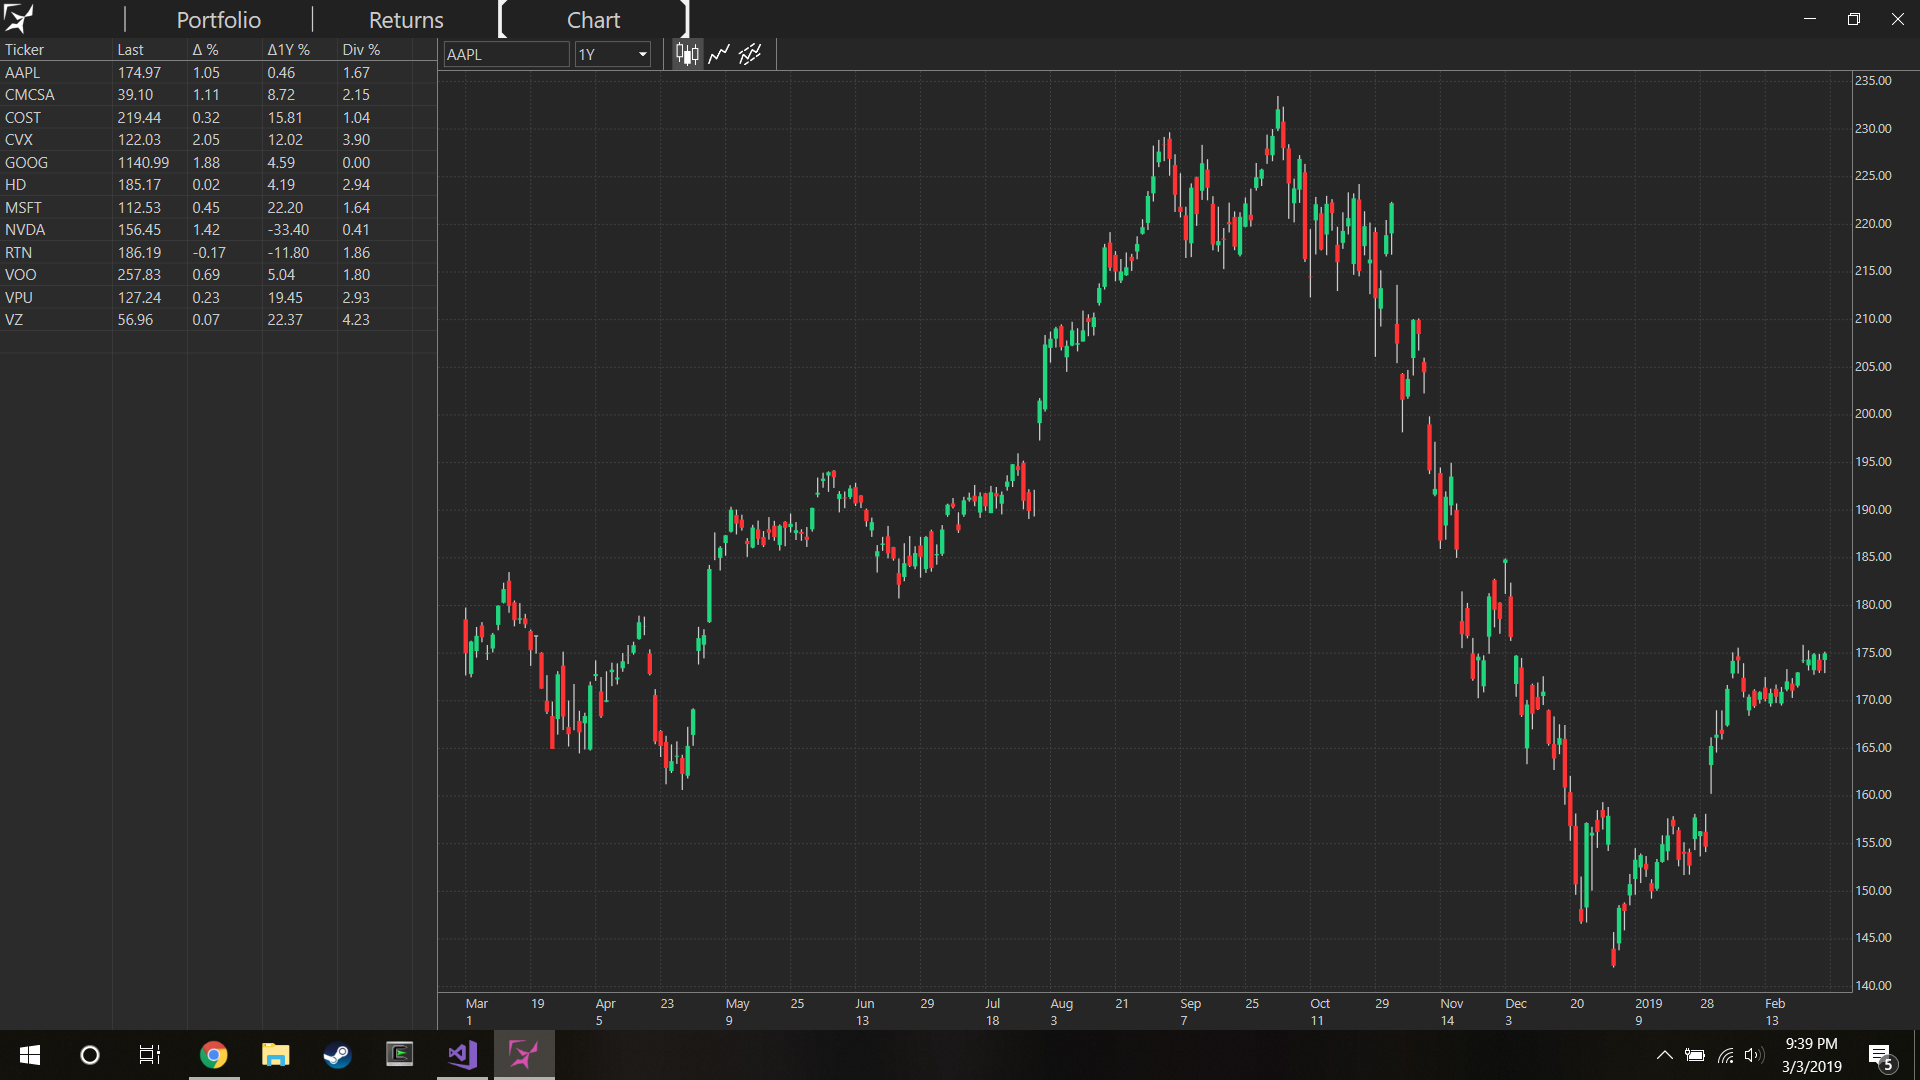
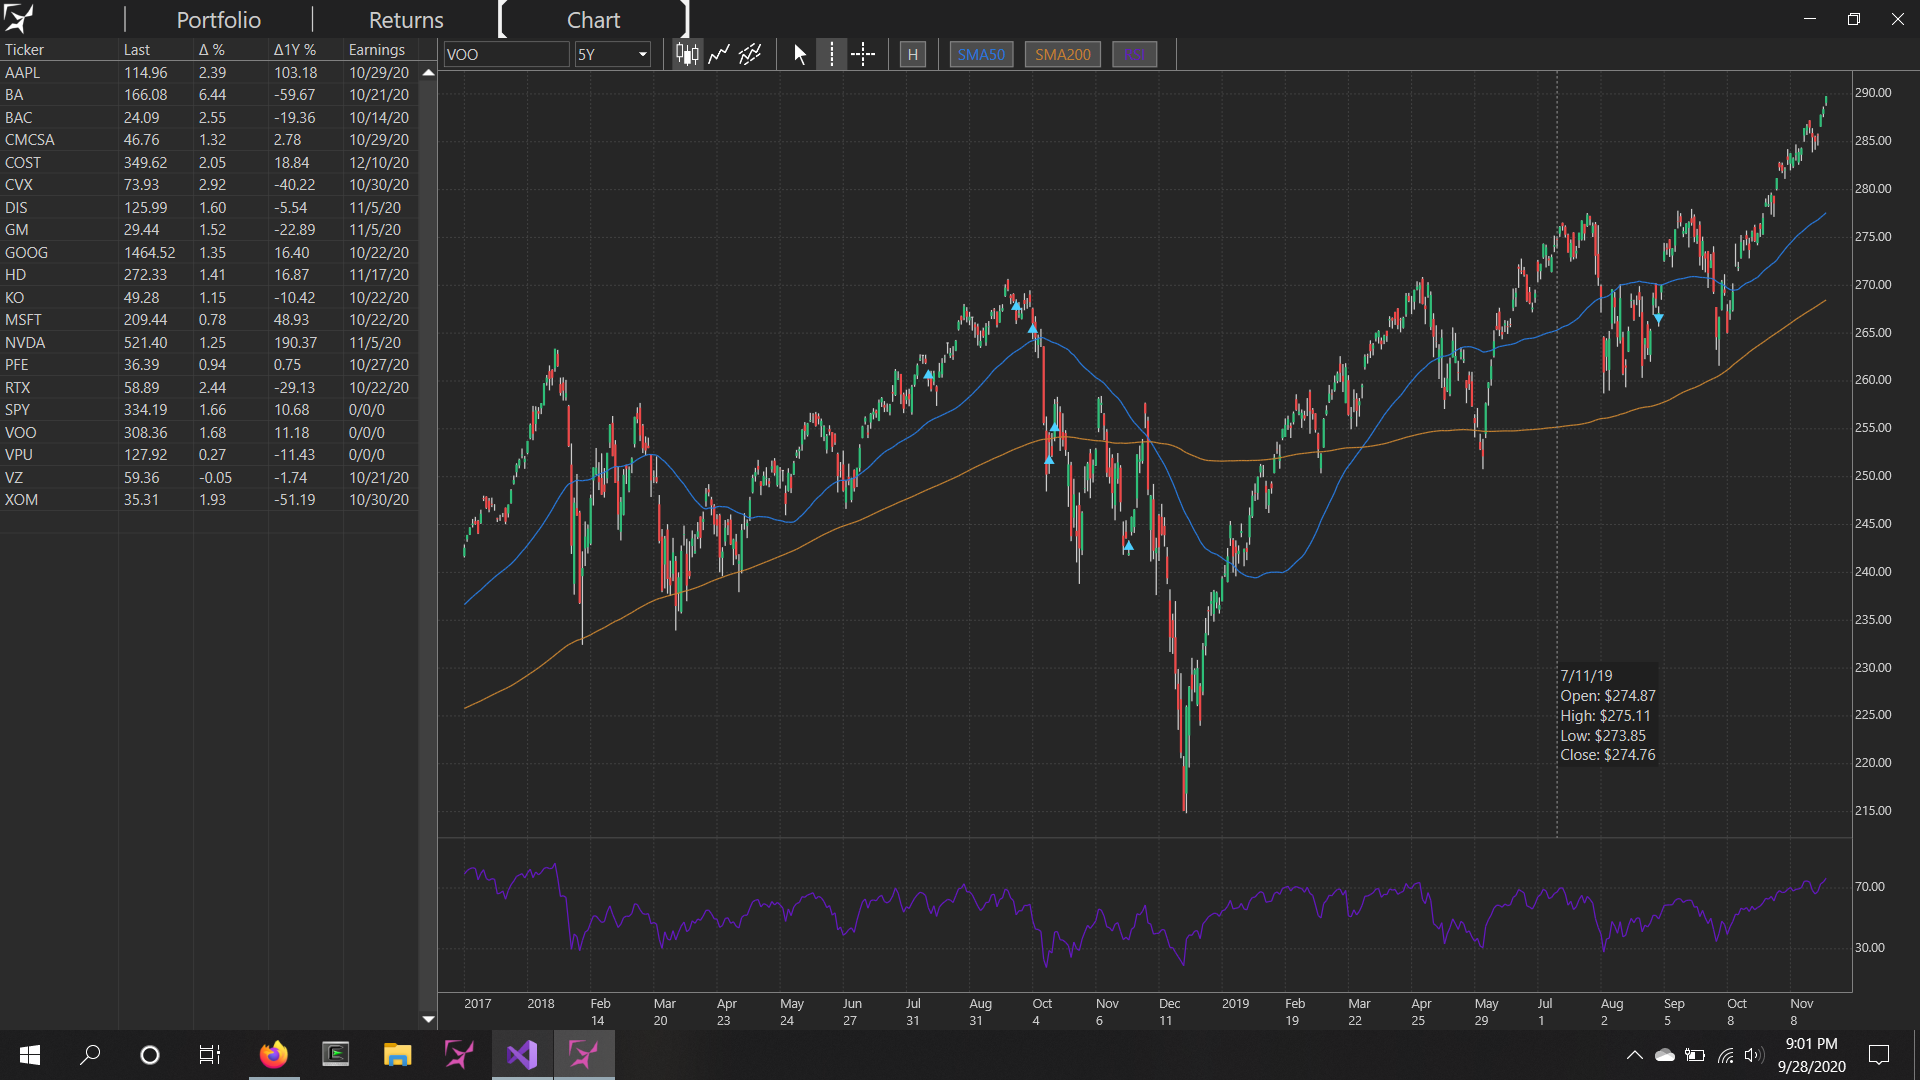
Change SMA to 50/200. New Image

diff --git a/Parthenos/AppItems/Chart.cpp b/Parthenos/AppItems/Chart.cpp
@@ -725,21 +725,21 @@ void Chart::DrawStudy(size_t i)
 {
 	switch (i)
 	{
-	case 0: // SMA20
+	case 0: // SMA50
 	{
 		size_t iStart = FindDateOHLC(m_ohlc, m_startDate);
 		size_t iEnd = FindDateOHLC(m_ohlc, m_endDate); // Inclusive
-		auto data = ::SMA(m_ohlc, iStart, iEnd + 1, 20);
+		auto data = ::SMA(m_ohlc, iStart, iEnd + 1, 50);
 
 		LineProps props = { m_studyColors[i], 1.0f, nullptr };
 		m_axes.Line(data.first, data.second, props, Axes::GG_SEC, m_studyNames[i]);
 	}
 	break;
-	case 1: // SMA100
+	case 1: // SMA200
 	{
 		size_t iStart = FindDateOHLC(m_ohlc, m_startDate);
 		size_t iEnd = FindDateOHLC(m_ohlc, m_endDate); // Inclusive
-		auto data = ::SMA(m_ohlc, iStart, iEnd + 1, 100);
+		auto data = ::SMA(m_ohlc, iStart, iEnd + 1, 200);
 
 		LineProps props = { m_studyColors[i], 1.0f, nullptr };
 		m_axes.Line(data.first, data.second, props, Axes::GG_SEC, m_studyNames[i]);

diff --git a/Parthenos/AppItems/Chart.h b/Parthenos/AppItems/Chart.h
@@ -46,7 +46,7 @@ private:
 	float				m_menuHeight	= 26.0f;
 	float				m_commandHPad	= 5.0f;
 	const std::wstring  m_markerNames[MARK_NMARKERS] = { L"H" };
-	const std::wstring	m_studyNames[m_nStudies] = { L"SMA20", L"SMA100", L"RSI" };
+	const std::wstring	m_studyNames[m_nStudies] = { L"SMA50", L"SMA200", L"RSI" };
 	const float			m_studyWidths[m_nStudies] = { 50.0f, 60.0f, 35.0f }; // Manually picked since these don't change dynamically
 	const D2D1_COLOR_F	m_studyColors[m_nStudies] = { D2D1::ColorF(0x2777d9), D2D1::ColorF(0xc28030), D2D1::ColorF(0x6417c2) };
 		// Solid blue, dull orange, deep purple
